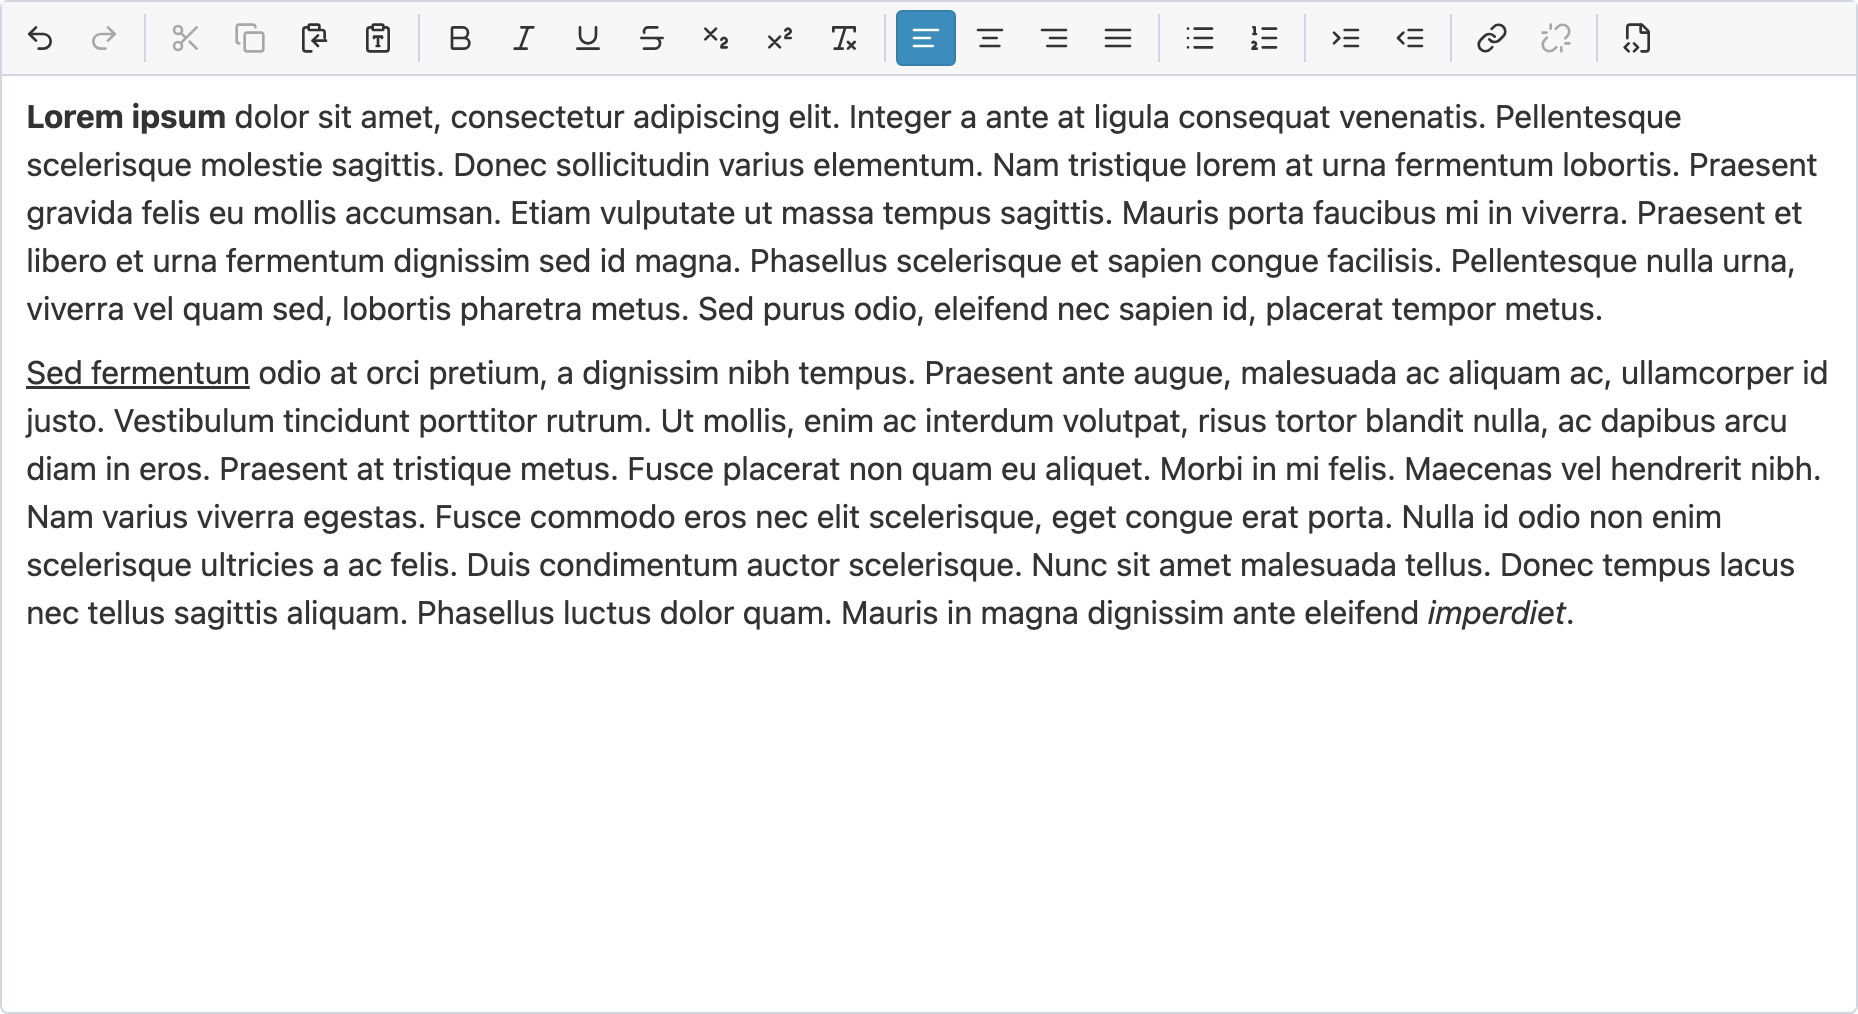
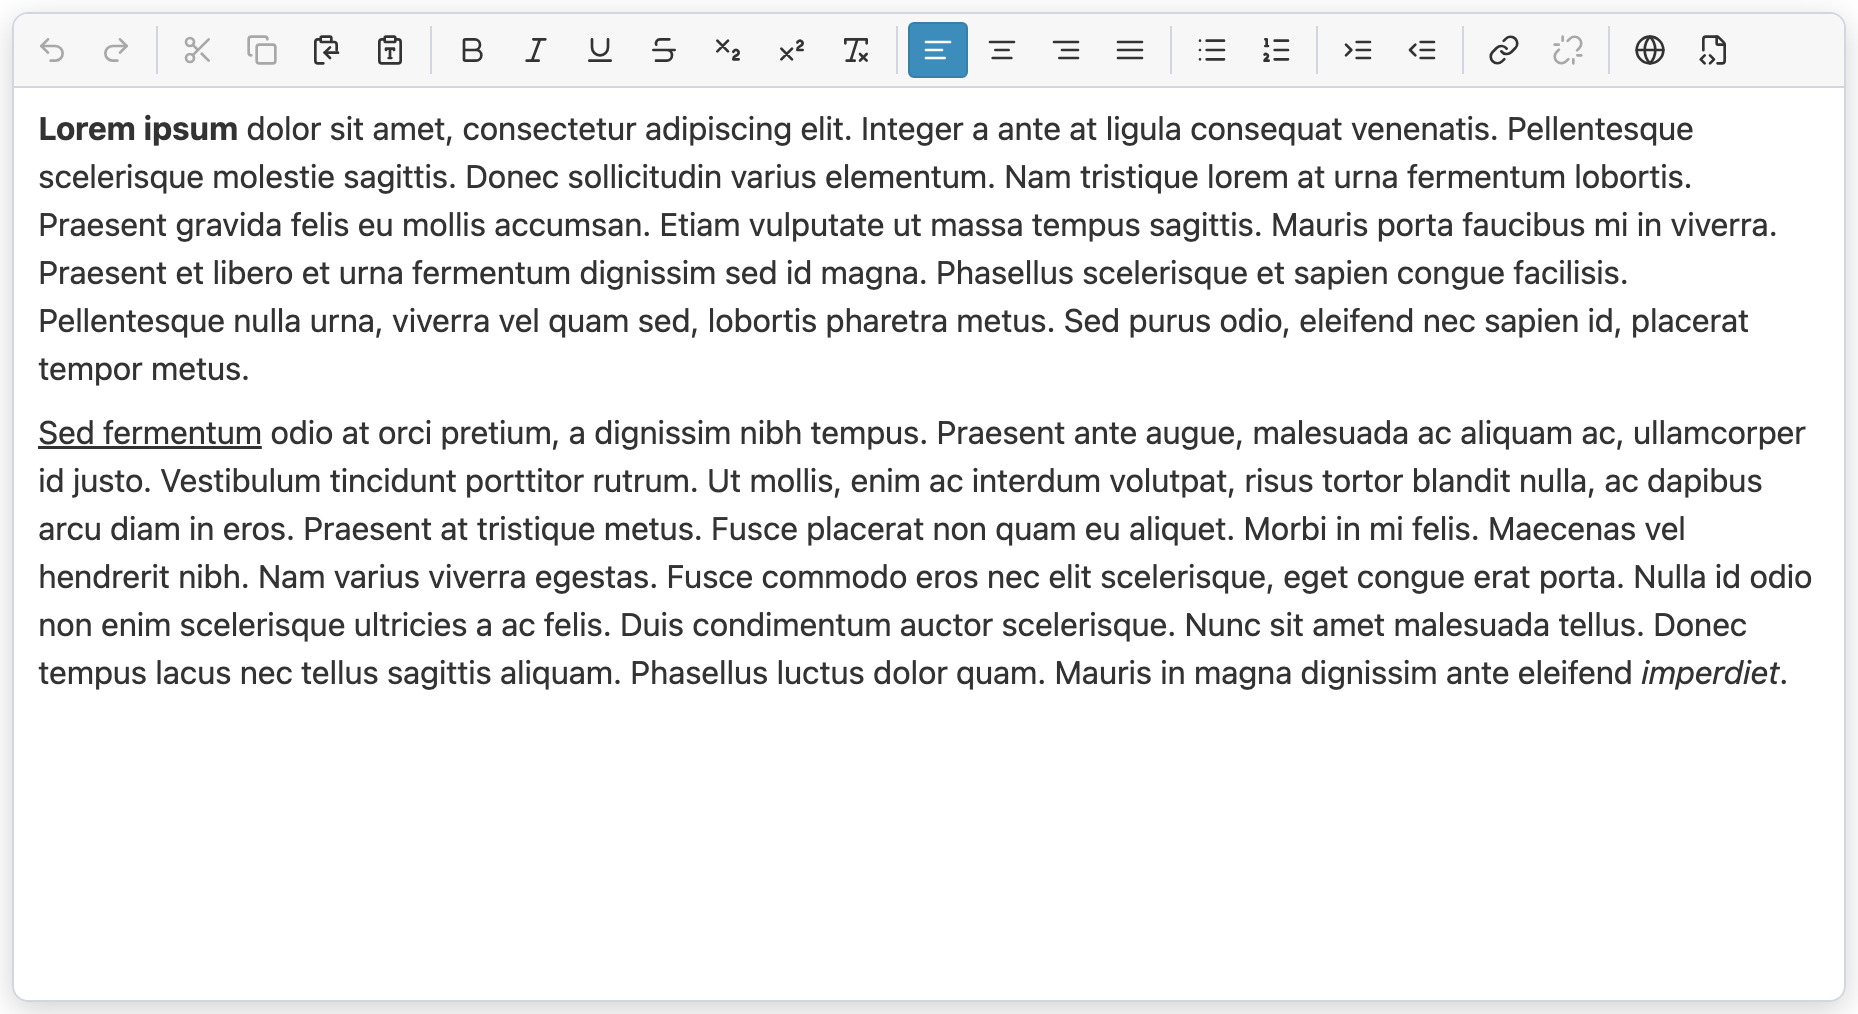
update documentation and screenshot for the iframe button
The screenshot is regenerated from the real form theme at the same size and
state as the one it replaces, so the only visible change is the new button.

Changed region(s): [[0.0, 0.0, 1.0, 1.0]]

diff --git a/docs/index.md b/docs/index.md
@@ -69,7 +69,7 @@ to a `string`/`text` property like any textarea.
 
 | Option                 | Type       | Default                           | Description                               |
 |------------------------|------------|-----------------------------------|-------------------------------------------|
-| `toolbar`              | `string[]` | all 24 buttons, in eight groups   | Ordered entries: button names and `\|` separators. |
+| `toolbar`              | `string[]` | all 25 buttons, in eight groups   | Ordered entries: button names and `\|` separators. |
 | `height`               | `string`   | `'200px'`                         | Minimum editable height (any CSS length). |
 | `allowed_link_schemes` | `string[]` | `['http','https','mailto','tel']` | URL schemes the link modal accepts.       |
 
@@ -87,7 +87,7 @@ $builder->add('description', LexicalFormType::class, [
 The button names are `undo`, `redo`, `cut`, `copy`, `paste`, `paste-word`, `bold`, `italic`,
 `underline`, `strikethrough`, `subscript`, `superscript`, `remove-format`, `align-left`,
 `align-center`, `align-right`, `align-justify`, `bullet`, `number`, `indent`, `outdent`, `link`,
-`unlink` and `source`.
+`unlink`, `iframe` and `source`.
 
 ### Grouping the toolbar
 
@@ -164,6 +164,28 @@ the four entries can also be cherry-picked individually. An editor without the b
 **preserves** any `text-align` already present in the stored (or pasted) HTML when the content is
 edited; opting out only removes the ability to change alignment from the toolbar.
 
+The `iframe` button embeds external content — a video, a map, a booking form — the way CKEditor's
+*IFrame* dialog did (the setup this replaces needed `extraAllowedContent: 'iframe[*]'` for the same
+reason: an editor keeps only the markup it knows about). The modal asks for the frame URL, an
+optional width and height, an advisory `title` and whether fullscreen is allowed; the result is
+stored as a plain `<iframe>`, which is what the frontend renders.
+
+Inside the editor the embed is a block of its own, rendered as a **live but inert preview**: the
+real frame, so editing stays WYSIWYG, with pointer events off so a click selects the block instead
+of disappearing into the framed page. A selected embed is outlined, <kbd>Backspace</kbd> or
+<kbd>Delete</kbd> removes it, and pressing the toolbar button again reopens the dialog to edit it
+(the button renders as "active" while an embed is selected). Insert, edit and delete are ordinary
+undoable steps. The preview additionally carries `loading="lazy"` and — unless the embed brought a
+`sandbox` of its own — a `sandbox="allow-scripts allow-same-origin"` that lets the framed page
+render but not navigate the page hosting the form away. Neither attribute is exported.
+
+An `<iframe>` that arrives as markup (the `source` modal, a paste, or stored content being loaded)
+keeps `src`, `width`, `height`, `title`, `allow`, `sandbox` and `allowfullscreen` — enough for a
+YouTube or Maps embed to survive a round-trip unchanged. Anything else it carried (`frameborder`,
+`referrerpolicy`, …) is normalised away like any other markup the model cannot represent. Width and
+height are the HTML dimension attributes, so the dialog takes a number of pixels or a percentage
+(`560`, `100%`); leave them empty to fall back to the browser's default frame size.
+
 The `source` button opens a modal where the document can be edited as plain-text HTML. Confirming
 re-imports the markup through Lexical's model, so only markup the editor can represent survives —
 anything else is normalised away — and the whole swap lands as a single undoable history step.
@@ -176,8 +198,9 @@ modal: a link whose scheme is not allowed is unwrapped (its text stays, the link
 |-------|------|----------------|
 | PHP   | `src/Form/Type/LexicalFormType.php` | Declares options, exposes `lexical_toolbar` / `lexical_height` view vars. |
 | Bundle| `src/FlexibleUxLexicalBundle.php`   | Registers the tagged service, prepends the form theme + icon set. |
-| HTML  | `templates/form/lexical_widget.html.twig` | Toolbar, editable surface, link `<dialog>`. |
+| HTML  | `templates/form/lexical_widget.html.twig` | Toolbar, editable surface, the link/source/iframe `<dialog>`s. |
 | JS    | `assets/src/controller.js`          | Mounts Lexical, syncs the textarea, drives the toolbar. |
+| JS    | `assets/src/iframe-node.js`         | The `IframeNode` the `iframe` button inserts (import, export, preview). |
 | CSS   | `assets/styles/lexical.css`         | Editor chrome (imported by the controller). |
 | Icons | `assets/icons/*.svg`                | Lucide glyphs served as `lexical:<name>`. |
 
@@ -223,8 +246,9 @@ your own stylesheet — the bundle's CSS is plain, unscoped and low-specificity 
 
 All labels live in the `FlexibleUxLexical` translation domain (English, Spanish and Catalan ship with
 the bundle). Add or override a locale by placing `translations/FlexibleUxLexical.<locale>.xlf` in your
-application. Keys: `toolbar.*`, `dialog.link.*`, `dialog.source.*`, `dialog.cancel`, `dialog.confirm`,
-`error.invalid_url`, `error.clipboard_denied`.
+application. Keys: `toolbar.*`, `dialog.link.*`, `dialog.source.*`, `dialog.iframe.*`, `dialog.cancel`,
+`dialog.confirm`, `error.invalid_url`, `error.invalid_embed_url`, `error.invalid_embed_size`,
+`error.clipboard_denied`.
 
 ## Security notes
 
@@ -236,6 +260,17 @@ application. Keys: `toolbar.*`, `dialog.link.*`, `dialog.source.*`, `dialog.canc
   not in the list is unwrapped (its text stays, the link is dropped). Note the last point: content
   that already contains a disallowed link loses that link the next time it is opened and saved
   through the editor. Widening the list widens what can be stored, so add schemes deliberately.
+- An embed's `src` is held to a fixed, narrower rule than links: it must resolve to an `http(s)` URL.
+  Relative URLs are fine (they resolve against the page), `javascript:` and `data:` are not — a frame
+  *runs* what it loads, so this list is not configurable, and `allowed_link_schemes` (which may
+  legitimately carry `mailto`/`tel`, or be widened) has no say over it. As with links, the rule is
+  enforced by a node transform at the point where every path into the document converges, so an
+  `<iframe>` with a disallowed `src` is dropped whether it came from the dialog, the `source` modal, a
+  paste or already-stored content — the same "opening and saving strips it" caveat applies.
+- A `sandbox` attribute already on an imported `<iframe>` is preserved rather than dropped, so
+  round-tripping stored content through the editor cannot silently widen what an embed may do. The
+  editor does not add one to the exported markup: sandboxing new embeds is the frontend's call, not
+  the editor's.
 - The field stores HTML. If that HTML is later rendered as raw markup, treat it as trusted content and
   sanitise anything that can reach the field from outside this editor.
 

diff --git a/README.md b/README.md
@@ -8,13 +8,13 @@ form field built on Meta's [Lexical](https://lexical.dev), wired for
 
 The field renders a toolbar (undo / redo, cut / copy / paste — including paste from Word —,
 bold, italic, underline, strikethrough, subscript / superscript, remove format, text alignment,
-bulleted / numbered lists, indentation, link, unlink, HTML source editing) and a
+bulleted / numbered lists, indentation, link, unlink, iframe embeds, HTML source editing) and a
 contenteditable surface around a hidden `<textarea>`. The editor reads the
 textarea's HTML on load and writes HTML back on every change, so it is a drop-in replacement for a
 plain textarea and **degrades to that textarea when JavaScript is disabled**. No build step is
 required — everything runs through AssetMapper's importmap.
 
-![The rendered LexicalFormType field: the toolbar (history, clipboard, text formats, alignment, lists, indentation, link and source-code buttons) above the editable surface](docs/screenshot.png)
+![The rendered LexicalFormType field: the toolbar (history, clipboard, text formats, alignment, lists, indentation, link, iframe and source-code buttons) above the editable surface](docs/screenshot.png)
 
 ## Requirements
 
@@ -94,7 +94,7 @@ $builder->add('description', LexicalFormType::class, [
 
 | Option                 | Type       | Default                                    | Description                                             |
 |------------------------|------------|--------------------------------------------|---------------------------------------------------------|
-| `toolbar`              | `string[]` | all 24 buttons in eight `\|`-separated groups | Ordered toolbar entries: button names and `\|` separators. |
+| `toolbar`              | `string[]` | all 25 buttons in eight `\|`-separated groups | Ordered toolbar entries: button names and `\|` separators. |
 | `height`               | `string`   | `'200px'`                                  | Minimum editable height (any CSS length).               |
 | `allowed_link_schemes` | `string[]` | `['http','https','mailto','tel']`          | URL schemes the link modal accepts.                     |
 
@@ -105,13 +105,20 @@ Available buttons:
 `undo` · `redo` · `cut` · `copy` · `paste` · `paste-word` · `bold` · `italic` · `underline` ·
 `strikethrough` · `subscript` · `superscript` · `remove-format` · `align-left` · `align-center` ·
 `align-right` · `align-justify` · `bullet` · `number` · `indent` · `outdent` · `link` · `unlink` ·
-`source`
+`iframe` · `source`
 
 The `paste` and `paste-word` buttons read the system clipboard through the asynchronous Clipboard
 API, so they need a secure context and (browser-dependent) the user's permission; when access is
 denied the editor shows a translated hint to paste with <kbd>Ctrl</kbd>+<kbd>V</kbd> instead.
 `paste-word` additionally cleans Word's markup and rebuilds its lists — see
 [`docs/index.md`](docs/index.md) for details.
+
+The `iframe` button embeds external content (a video, a map, a form) the way CKEditor's *IFrame*
+dialog did: a modal asks for the URL, an optional width and height, an advisory title and whether
+fullscreen is allowed, and the embed is stored as a plain `<iframe>`. Inside the editor it renders
+as a live but inert preview — click it to select it (<kbd>Backspace</kbd> removes it, the toolbar
+button reopens the dialog to edit it). The frame source must resolve to an `http(s)` URL; see
+[`docs/index.md`](docs/index.md) for what an imported `<iframe>` keeps.
 
 The toolbar renders **exactly the order you give**, and `|` draws a separator — so grouping is
 entirely yours to decide:
@@ -166,8 +173,9 @@ for instance, has no alignment buttons, so no field gets them unless it override
 Run `php bin/console config:dump-reference flexible_ux_lexical` to see the full reference.
 
 The editor stores **HTML**. When you render that HTML on a public page, output it as trusted markup
-(e.g. Twig's `|raw`) — links are restricted to `allowed_link_schemes` by the editor, but you remain
-responsible for sanitising any HTML that reaches the field from other sources.
+(e.g. Twig's `|raw`) — links are restricted to `allowed_link_schemes` and embeds to `http(s)` frame
+sources by the editor, but you remain responsible for sanitising any HTML that reaches the field
+from other sources.
 
 ## How it works
 

diff --git a/CHANGELOG.md b/CHANGELOG.md
@@ -7,6 +7,33 @@ and this project adheres to [Semantic Versioning](https://semver.org/spec/v2.0.0
 
 ## [Unreleased]
 
+### Added
+
+- An `iframe` toolbar button — the equivalent of CKEditor's *IFrame* dialog (and of the
+  `extraAllowedContent: 'iframe[*]'` a FOSCKEditor config needed to keep the markup) — sitting
+  right before `source` in the default toolbar, and optional like every other button.
+  - The modal takes the frame URL, an optional width and height (a number of pixels or a
+    percentage), an advisory `title` and an *allow fullscreen* checkbox; the embed is stored as a
+    plain `<iframe>`.
+  - Embeds are a Lexical node of their own (`assets/src/iframe-node.js`), so they survive the
+    round-trip through the editor: an `<iframe>` arriving from the `source` modal, a paste or
+    already-stored content keeps `src`, `width`, `height`, `title`, `allow`, `sandbox` and
+    `allowfullscreen` — enough for a YouTube or Maps embed — while everything else it carried is
+    normalised away like any other markup the model cannot represent.
+  - Inside the editor an embed renders as a live but inert preview: clicking it selects the block
+    (outlined, and `cut`/`copy` apply to it), <kbd>Backspace</kbd> or <kbd>Delete</kbd> removes it,
+    and pressing the toolbar button again reopens the dialog to edit it. Insert, edit and delete
+    are ordinary undoable steps. The preview carries `loading="lazy"` and, unless the embed brought
+    its own `sandbox`, a `sandbox="allow-scripts allow-same-origin"` that keeps the framed page from
+    navigating the page hosting the form away; neither attribute is exported.
+  - A frame source must resolve to an `http(s)` URL — relative URLs included, `javascript:` and
+    `data:` excluded. The rule is fixed (deliberately not `allowed_link_schemes`, which may carry
+    `mailto`/`tel`) and, like the link allowlist, enforced by a node transform wherever content
+    enters the document, so a disallowed embed is dropped whichever way it arrived.
+- The Lucide `globe` icon joins the bundled offline icon set, and the labels (`toolbar.iframe`,
+  `dialog.iframe.*`, `error.invalid_embed_url`, `error.invalid_embed_size`) ship translated in
+  English, Spanish and Catalan.
+
 ### Changed
 
 - **BC break**: added the `LexicalBundle` namespace sublevel so several FlexibleUx bundles can
